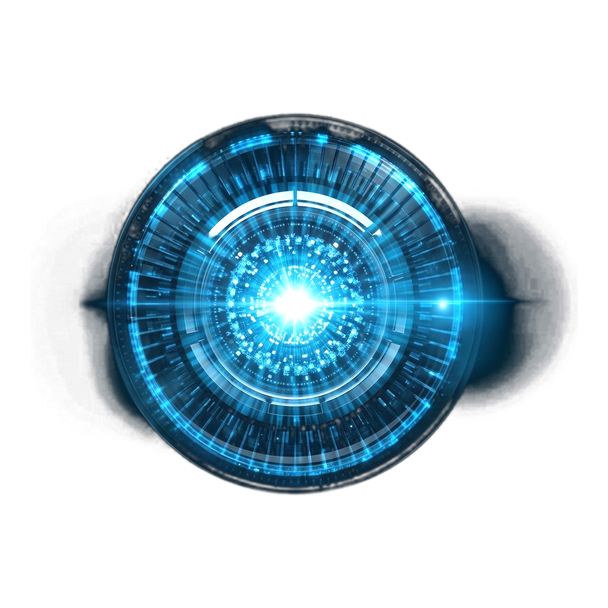
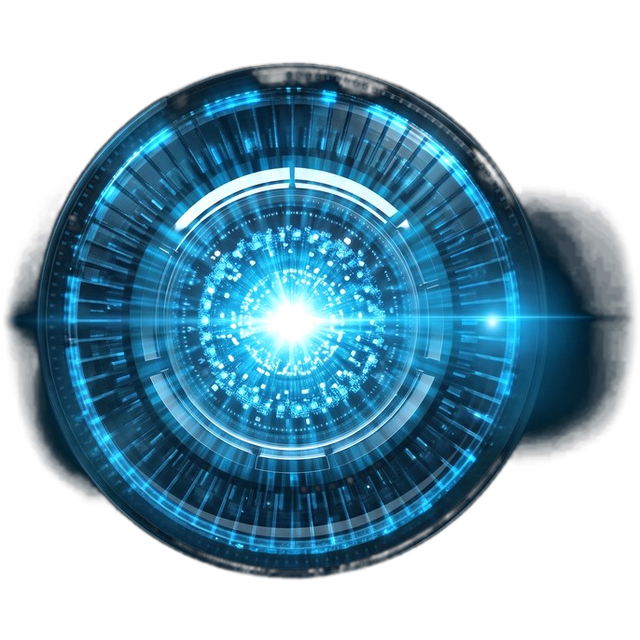
Assemble le cœur JARVIS comme la planche éclatée de référence

diff --git a/viewer/styles.css b/viewer/styles.css
@@ -37,14 +37,14 @@ button:focus-visible, input:focus-visible, textarea:focus-visible, a:focus-visib
 .jarvis-core { position: absolute; left: var(--core-x, 688px); top: var(--core-y, 332px); width: var(--core-size, 380px); height: var(--core-size, 380px); margin: calc(var(--core-size, 380px) / -2) 0 0 calc(var(--core-size, 380px) / -2); transform: perspective(1400px) rotateX(9deg); transform-style: preserve-3d; --jarvis-voice: 0; }
 .jarvis-core-layer { position: absolute; inset: 0; display: grid; place-items: center; pointer-events: none; }
 .jarvis-core-layer img { display: block; width: 100%; height: 100%; object-fit: contain; user-select: none; -webkit-user-drag: none; }
-.core-ring { opacity: .6; transition: opacity .45s ease; }
+.core-ring { opacity: .88; transition: opacity .45s ease; }
 .core-ring img { animation: jarvis-core-spin 96s linear infinite; }
-.core-veil { opacity: .7; transition: opacity .45s ease; }
-.core-veil img { width: 87%; height: 87%; animation: jarvis-core-spin-reverse 64s linear infinite; }
-.core-disc { opacity: calc(.56 + .3 * var(--jarvis-voice)); transition: opacity .12s ease-out; }
-.core-disc img { width: 75%; height: 75%; mix-blend-mode: screen; animation: jarvis-core-spin 30s linear infinite; }
-.core-light { opacity: calc(.62 + .34 * var(--jarvis-voice)); transition: opacity .12s ease-out; }
-.core-light img { width: 55%; height: 55%; mix-blend-mode: screen; animation: jarvis-core-pulse 3.8s ease-in-out infinite; }
+.core-veil { opacity: .62; transition: opacity .45s ease; }
+.core-veil img { width: 90%; height: 90%; animation: jarvis-core-spin-reverse 64s linear infinite; }
+.core-disc { opacity: calc(.62 + .34 * var(--jarvis-voice)); transition: opacity .12s ease-out; }
+.core-disc img { width: 74%; height: 74%; mix-blend-mode: screen; animation: jarvis-core-spin 30s linear infinite; }
+.core-light { opacity: calc(.72 + .28 * var(--jarvis-voice)); transition: opacity .12s ease-out; }
+.core-light img { width: 34%; height: 34%; mix-blend-mode: screen; animation: jarvis-core-pulse 3.8s ease-in-out infinite; }
 .jarvis-core-halo { position: absolute; inset: -14%; border-radius: 50%; background: radial-gradient(circle, rgba(78,214,255,.20), rgba(44,164,224,.07) 46%, transparent 70%); animation: jarvis-core-breathe 6.4s ease-in-out infinite; }
 .jarvis-core-beam { position: absolute; left: 50%; top: 62%; width: 46%; height: 62%; margin-left: -23%; transform: perspective(320px) rotateX(38deg); transform-origin: 50% 0; background: linear-gradient(180deg, rgba(120,235,255,.30), rgba(64,190,240,.10) 46%, transparent 86%); filter: blur(6px); opacity: .5; }
 .jarvis-core-base { position: absolute; left: 50%; top: 96%; width: 62%; height: 13%; margin-left: -31%; border-radius: 50%; background: radial-gradient(ellipse at center, rgba(96,226,255,.5), rgba(40,150,215,.14) 55%, transparent 78%); opacity: .55; }
@@ -54,8 +54,8 @@ button:focus-visible, input:focus-visible, textarea:focus-visible, a:focus-visib
 @keyframes jarvis-core-breathe { 0%, 100% { opacity: .55; transform: scale(.99); } 50% { opacity: .85; transform: scale(1.02); } }
 
 /* Parole : les anneaux accélèrent et s'éclairent, l'orbe bat plus vite. */
-body.jarvis-speaking .core-ring { opacity: .88; }
-body.jarvis-speaking .core-veil { opacity: .95; }
+body.jarvis-speaking .core-ring { opacity: 1; }
+body.jarvis-speaking .core-veil { opacity: .92; }
 body.jarvis-speaking .core-ring img { animation-duration: 34s; }
 body.jarvis-speaking .core-veil img { animation-duration: 22s; }
 body.jarvis-speaking .core-disc img { animation-duration: 11s; }
@@ -425,6 +425,6 @@ button:hover .chevron { color: var(--cyan); transform: translateX(2px); }
 @media (prefers-reduced-motion: reduce) {
   *, *::before, *::after { scroll-behavior: auto !important; animation-duration: .01ms !important; animation-iteration-count: 1 !important; }
   .jarvis-core-layer img, .jarvis-core-halo, .jarvis-core-beam { animation: none !important; }
-  body.jarvis-speaking .core-ring { opacity: .88; }
-  body.jarvis-speaking .core-veil { opacity: .95; }
+  body.jarvis-speaking .core-ring { opacity: 1; }
+  body.jarvis-speaking .core-veil { opacity: .92; }
 }

diff --git a/tools/build-jarvis-core.py b/tools/build-jarvis-core.py
@@ -1,18 +1,20 @@
 #!/usr/bin/env python3
 """Compose le cœur holographique de JARVIS : quatre anneaux concentriques animés.
 
-Couches produites (PNG RGBA carrés, centrés, 608 px de côté) :
+Ordre d'assemblage (du fond vers l'avant) :
 
-1. `jarvis-core-ring.png`   — couronne métallique sombre (le cerclage)
-2. `jarvis-core-veil.png`   — anneau de verre strié (la couronne interne)
-3. `jarvis-core-disc.png`   — disque HUD cyan et ses graduations
+1. `jarvis-core-ring.png`   — couronne d'acier sombre (vue frontale)
+2. `jarvis-core-veil.png`   — anneau de verre strié
+3. `jarvis-core-disc.png`   — disque HUD cyan (perspective redressée)
 4. `jarvis-core-light.png`  — orbe lumineuse centrale
 
-Les sources de `tools/sources/` sont des images générées sur fond noir ou damier :
-le fond est estimé puis retiré, l'alpha est déduit de l'éclat et de la saturation.
+Chaque calque est un PNG RGBA carré, centré, exporté à `EXPORT` pixels de côté.
+Les sources (`tools/sources/`) sont des images générées sur fond noir ou damier :
+le fond est estimé puis retiré, les traits de repère sont effacés, et les pièces
+vues en perspective sont redressées pour retrouver des cercles.
 
-    python3 tools/build-jarvis-core.py            # écrit les quatre calques
-    python3 tools/build-jarvis-core.py --preview  # + rendus de contrôle repos/parole
+    python3 tools/build-jarvis-core.py             # écrit les quatre calques
+    python3 tools/build-jarvis-core.py --preview   # + rendus de contrôle repos/parole
 
 Prérequis (uniquement pour cette commande) : Pillow et numpy.
 """
@@ -27,66 +29,54 @@ from PIL import Image, ImageFilter
 ROOT = Path(__file__).resolve().parent.parent
 ASSETS = ROOT / "viewer" / "assets"
 SOURCES = ROOT / "tools" / "sources"
-EXPORT = 608  # 1,6× le diamètre CSS de 380 px : net sur écran Retina
+EXPORT = 640  # 1,7× le diamètre CSS de 380 px : net sur écran Retina
 
 
 def load(name: str) -> np.ndarray:
     return np.asarray(Image.open(SOURCES / name).convert("RGB"), dtype=np.float32) / 255.0
 
 
-def luminance(rgb: np.ndarray) -> np.ndarray:
-    return rgb.max(axis=2)
-
-
-def chroma(rgb: np.ndarray) -> np.ndarray:
-    return rgb.max(axis=2) - rgb.min(axis=2)
-
-
-def smoothstep(field: np.ndarray, low: float, high: float) -> np.ndarray:
+def smooth(field: np.ndarray, low: float, high: float) -> np.ndarray:
     x = np.clip((field - low) / max(high - low, 1e-6), 0.0, 1.0)
     return x * x * (3.0 - 2.0 * x)
 
 
-def feather(alpha: np.ndarray, radius: float = 1.2) -> np.ndarray:
+def feather(alpha: np.ndarray, radius: float = 1.0) -> np.ndarray:
     image = Image.fromarray((np.clip(alpha, 0, 1) * 255).astype(np.uint8), "L")
     return np.asarray(image.filter(ImageFilter.GaussianBlur(radius)), dtype=np.float32) / 255.0
 
 
-def remove_backdrop(rgb: np.ndarray, strength: float = 1.30) -> np.ndarray:
-    """Retire l'ombre portée d'un fond noir en estimant la valeur des bords."""
-    border = np.concatenate([
-        rgb[:8].reshape(-1, 3), rgb[-8:].reshape(-1, 3),
-        rgb[:, :8].reshape(-1, 3), rgb[:, -8:].reshape(-1, 3),
-    ])
-    backdrop = np.median(border, axis=0)
-    scale = max(1.0 - float(backdrop.max()) * strength, 0.35)
-    return np.clip((rgb - backdrop * strength) / scale, 0, 1)
+def despeckle(field: np.ndarray, size: int = 9) -> np.ndarray:
+    """Médiane 1D horizontale puis verticale : efface les traits de repère fins."""
+    height, width = field.shape
+    half = size // 2
+    padded = np.pad(field, ((0, 0), (half, half)), mode="edge")
+    rows = np.stack([padded[:, index:index + width] for index in range(size)])
+    field = np.median(rows, axis=0)
+    padded = np.pad(field, ((half, half), (0, 0)), mode="edge")
+    columns = np.stack([padded[index:index + height] for index in range(size)])
+    return np.median(columns, axis=0)
 
 
-def crop_to_content(rgb: np.ndarray, alpha: np.ndarray, threshold: float = 0.02) -> tuple[np.ndarray, np.ndarray]:
-    ys, xs = np.where(alpha > threshold)
-    if not len(xs):
-        raise SystemExit("Source vide : vérifiez tools/sources/.")
-    box = (ys.min(), ys.max() + 1, xs.min(), xs.max() + 1)
-    return rgb[box[0]:box[1], box[2]:box[3]], alpha[box[0]:box[1], box[2]:box[3]]
+def crop_circle(rgb: np.ndarray, alpha: np.ndarray, cx: float, cy: float, r: float,
+                companion: np.ndarray | None = None) -> tuple[np.ndarray, np.ndarray, np.ndarray | None]:
+    """Découpe un disque en adoucissant le bord : aucun angle carré ne subsiste.
+
+    `companion` est une seconde carte (luminance par exemple) découpée de la même façon.
+    """
+    yy, xx = np.mgrid[0:rgb.shape[0], 0:rgb.shape[1]]
+    circle = 1.0 - smooth(np.sqrt((xx - cx) ** 2 + (yy - cy) ** 2) / r, 0.94, 1.0)
+    masked = alpha * circle
+    top, bottom = max(int(cy - r), 0), min(int(cy + r), rgb.shape[0])
+    left, right = max(int(cx - r), 0), min(int(cx + r), rgb.shape[1])
+    extra = companion[top:bottom, left:right] if companion is not None else None
+    return rgb[top:bottom, left:right], masked[top:bottom, left:right], extra
 
 
-def square(rgb: np.ndarray, alpha: np.ndarray, fill: float = 0.92) -> tuple[np.ndarray, np.ndarray]:
-    """Centre la découpe dans un carré : `fill` = part du carré occupée par l'anneau."""
-    height, width = alpha.shape
-    side = int(round(max(height, width) / max(fill, 0.05)))
-    canvas_rgb = np.zeros((side, side, 3), dtype=np.float32)
-    canvas_alpha = np.zeros((side, side), dtype=np.float32)
-    top, left = (side - height) // 2, (side - width) // 2
-    canvas_rgb[top:top + height, left:left + width] = rgb
-    canvas_alpha[top:top + height, left:left + width] = alpha
-    return canvas_rgb, canvas_alpha
-
-
-def resize(rgb: np.ndarray, alpha: np.ndarray, size: int) -> tuple[np.ndarray, np.ndarray]:
-    """Redimensionnement prémultiplié : pas de liseré sombre autour des reflets."""
-    premultiplied = np.dstack([rgb * alpha[:, :, None], alpha]) * 255.0
-    image = Image.fromarray(premultiplied.clip(0, 255).astype(np.uint8), "RGBA")
+def to_square(rgb: np.ndarray, alpha: np.ndarray, size: int) -> tuple[np.ndarray, np.ndarray]:
+    """Redimensionne en carré (redressement de perspective + mise à l'échelle)."""
+    premultiplied = np.dstack([rgb * alpha[:, :, None], alpha])
+    image = Image.fromarray((premultiplied * 255).clip(0, 255).astype(np.uint8), "RGBA")
     image = image.resize((size, size), Image.Resampling.LANCZOS)
     data = np.asarray(image, dtype=np.float32) / 255.0
     out_alpha = data[:, :, 3]
@@ -95,116 +85,129 @@ def resize(rgb: np.ndarray, alpha: np.ndarray, size: int) -> tuple[np.ndarray, n
 
 
 def save(rgb: np.ndarray, alpha: np.ndarray, name: str) -> None:
-    data = np.dstack([rgb * 255.0, alpha * 255.0]).clip(0, 255).astype(np.uint8)
-    image = Image.fromarray(data, "RGBA").resize((EXPORT, EXPORT), Image.Resampling.LANCZOS)
+    data = np.dstack([rgb, alpha]).clip(0, 1) * 255.0
+    image = Image.fromarray(data.astype(np.uint8), "RGBA")
+    if image.size != (EXPORT, EXPORT):
+        image = image.resize((EXPORT, EXPORT), Image.Resampling.LANCZOS)
     destination = ASSETS / name
     image.save(destination, optimize=True)
     print(f"{name:26s} {destination.stat().st_size:>8,} octets  bbox {image.getchannel('A').getbbox()}")
 
 
-def steel_colour(rgb: np.ndarray, dark: str, light: str) -> np.ndarray:
-    """Acier bleuté : l'éclat d'origine module un dégradé sombre → clair contrôlé.
-
-    Recolorer avec des teintes fixes évite les verts olive qu'un simple produit
-    chroma/luminance fait apparaître sur des pixels presque noirs.
-    """
-    low = np.array([int(dark[index:index + 2], 16) / 255 for index in (1, 3, 5)], dtype=np.float32)
-    high = np.array([int(light[index:index + 2], 16) / 255 for index in (1, 3, 5)], dtype=np.float32)
-    lum = luminance(rgb)
+def steel(rgb: np.ndarray, dark: str, light: str) -> np.ndarray:
+    """Acier bleuté : l'éclat d'origine module un dégradé sombre → clair contrôlé."""
+    low = np.array([int(dark[i:i + 2], 16) / 255 for i in (1, 3, 5)], dtype=np.float32)
+    high = np.array([int(light[i:i + 2], 16) / 255 for i in (1, 3, 5)], dtype=np.float32)
+    lum = rgb.max(axis=2)
     reference = max(float(np.percentile(lum[lum > 0.02], 99.5)) if (lum > 0.02).any() else 0.5, 1e-3)
-    ramp = np.clip(lum / reference, 0, 1) ** 0.75
+    ramp = np.clip(lum / reference, 0, 1) ** 0.78
     return low + (high - low) * ramp[:, :, None]
 
 
-def build_ring() -> None:
-    rgb = remove_backdrop(load("metal-ring.jpg"))
-    lum = luminance(rgb)
-    # La couronne est opaque sur sa masse, translucide sur ses stries.
-    # Seuils relevés : la planche d'origine contient un disque gris très sombre autour
-    # de la couronne ; sans ce plancher, il apparaîtrait comme un voile carré.
-    body = smoothstep(lum, 0.055, 0.150)
-    alpha = feather(smoothstep(body, 0.30, 0.95) * 0.95, 1.2)
-    colour = steel_colour(rgb, "#25323d", "#e2eef6")
-    save(*resize(*square(*crop_to_content(colour, alpha), fill=0.97), EXPORT), "jarvis-core-ring.png")
+def measure(alpha: np.ndarray, threshold: float = 0.5) -> tuple[float, float, float]:
+    ys, xs = np.where(alpha > threshold)
+    if not len(xs):
+        raise SystemExit("Calque vide : vérifiez tools/sources/.")
+    cx, cy = (xs.min() + xs.max()) / 2, (ys.min() + ys.max()) / 2
+    radius = max(xs.max() - xs.min(), ys.max() - ys.min()) / 2
+    return cx, cy, radius
+
+
+def build_crown() -> None:
+    """Couronne d'acier : vue frontale déjà circulaire."""
+    rgb = load("metal-ring.jpg")
+    lum = rgb.max(axis=2)
+    body = smooth(lum, 0.010, 0.050)
+    cx, cy, radius = measure(lum > 0.05)
+    cut_rgb, cut_alpha, cut_lum = crop_circle(rgb, body, cx, cy, radius * 1.01, companion=lum)
+    # Métal sombre : la masse reste presque noire, seules les arêtes chromées s'allument.
+    colour = steel(cut_rgb, "#0d141c", "#f2fbff") ** 1.45 * 0.92
+    save(*to_square(np.clip(colour, 0, 1), feather(cut_alpha, 0.8), EXPORT), "jarvis-core-ring.png")
 
 
 def build_veil() -> None:
-    """Anneau de verre strié : détouré d'un damier gris, sans halo résiduel."""
+    """Anneau de verre strié, détouré d'un damier gris (pas de halo résiduel)."""
     rgb = load("glass-ring.jpg")
-    lum, sat = luminance(rgb), chroma(rgb)
-    glass = (sat > 0.045) | ((lum < 0.55) & (lum > 0.03))
+    lum, sat = rgb.max(axis=2), rgb.max(axis=2) - rgb.min(axis=2)
+    glass = ((sat > 0.045) | ((lum < 0.55) & (lum > 0.03))).astype(np.float32)
     solid = np.asarray(
         Image.fromarray((glass * 255).astype(np.uint8)).filter(ImageFilter.MinFilter(5)),
         dtype=np.float32,
     ) / 255.0
-    ys, xs = np.where(solid > 0.5)
-    centre_x, centre_y = (xs.min() + xs.max()) / 2, (ys.min() + ys.max()) / 2
-    radius = max(xs.max() - xs.min(), ys.max() - ys.min()) / 2
-    yy, xx = np.mgrid[0:rgb.shape[0], 0:rgb.shape[1]]
-    radial = np.clip((1.04 - np.sqrt((xx - centre_x) ** 2 + (yy - centre_y) ** 2) / radius) / 0.05, 0, 1)
-    alpha = solid * radial
-    # Les carreaux clairs du damier ne doivent pas rester collés au verre.
-    alpha = np.where((sat < 0.035) & (lum > 0.70), 0, alpha)
-    alpha = feather(alpha, 1.0) * np.clip(lum * 2.2 + 0.35, 0, 1)
-    colour = steel_colour(rgb, "#21313c", "#cfe7f2") * 0.92
-    save(*resize(*square(*crop_to_content(colour, alpha), fill=0.94), EXPORT), "jarvis-core-veil.png")
+    # La planche contient des repères (traits fins) : on les efface avant de découper.
+    # La planche laisse une large marge noire : on cadre la bande utile en proportion.
+    top, bottom = int(rgb.shape[0] * 0.218), int(rgb.shape[0] * 0.770)
+    solid = despeckle(solid[top:bottom], 9)
+    cx, cy, radius = measure(solid)
+    solid = np.where((sat[top:bottom] < 0.035) & (lum[top:bottom] > 0.70), 0, solid)
+    cut_rgb, cut_alpha, cut_lum = crop_circle(
+        rgb[top:bottom], solid, cx, cy, radius * 1.02, companion=lum[top:bottom]
+    )
+    cut_alpha = cut_alpha * np.clip(cut_lum * 3.4 - 0.12, 0, 1)
+    colour = np.clip(steel(cut_rgb, "#0f1d27", "#dceff9") ** 1.35 * 1.05, 0, 1)
+    save(*to_square(colour, feather(cut_alpha, 1.0), EXPORT), "jarvis-core-veil.png")
 
 
 def build_disc() -> None:
-    rgb = remove_backdrop(load("cyan-disc.jpg"), strength=1.0)
-    lum = luminance(rgb)
-    alpha = feather(smoothstep(lum, 0.015, 0.20), 1.0)
-    save(*resize(*square(*crop_to_content(np.clip(rgb * 1.10, 0, 1), alpha), fill=0.90), EXPORT), "jarvis-core-disc.png")
+    """Disque HUD cyan, vu de face : aucune perspective à corriger, aucun métal voisin."""
+    rgb = load("cyan-disc.jpg")
+    lum = rgb.max(axis=2)
+    sat = rgb.max(axis=2) - rgb.min(axis=2)
+    mask = despeckle(smooth(lum, 0.04, 0.18) * np.maximum(smooth(sat, 0.02, 0.10), 0.55), 7)
+    cx, cy, radius = measure(mask, threshold=0.30)
+    cut_rgb, cut_alpha, _ = crop_circle(rgb, mask, cx, cy, radius * 1.0)
+    save(*to_square(np.clip(cut_rgb * 1.05, 0, 1), feather(cut_alpha, 1.0), EXPORT), "jarvis-core-disc.png")
 
 
 def build_light() -> None:
-    """Orbe centrale : uniquement le cœur très lumineux, pas le disque cyan complet."""
-    rgb = remove_backdrop(load("core-glow.jpg"))
-    lum = luminance(rgb)
-    bright = lum > 0.62
-    ys, xs = np.where(bright)
+    """Orbe lumineuse : noyau blanc, couronne de rayons cyan, sans le cerclage métallique.
+
+    La source empile un arc d'acier et l'orbe. L'acier est gris (saturation faible) :
+    on ne conserve donc que le signal cyan, complété par le noyau blanc central.
+    """
+    rgb = load("orb-glow.jpg")
+    lum = rgb.max(axis=2)
+    sat = rgb.max(axis=2) - rgb.min(axis=2)
+    cyan = smooth(sat, 0.05, 0.28) * smooth(lum, 0.03, 0.25)
+    ys, xs = np.where((sat > 0.25) & (lum > 0.35))
     if not len(xs):
-        raise SystemExit("Cœur lumineux introuvable dans core-glow.jpg")
-    centre_x, centre_y = int(np.median(xs)), int(np.median(ys))
-    radius = int(max(xs.max() - xs.min(), ys.max() - ys.min()) * 0.95)
-    side = radius * 2
-    top, left = max(centre_y - radius, 0), max(centre_x - radius, 0)
-    crop = rgb[top:top + side, left:left + side]
-    height, width = crop.shape[:2]
-    yy, xx = np.mgrid[0:height, 0:width]
-    distance = np.sqrt((xx - width / 2) ** 2 + (yy - height / 2) ** 2) / (min(width, height) / 2)
-    circular = 1.0 - smoothstep(distance, 0.55, 1.0)
-    local = luminance(crop)
-    alpha = feather(smoothstep(local, 0.18, 0.85) * circular, 2.0)
-    colour = steel_colour(crop, "#3fb6e6", "#ffffff")
-    save(*resize(colour, alpha, EXPORT), "jarvis-core-light.png")
+        raise SystemExit("Orbe centrale introuvable dans orb-glow.jpg")
+    cx, cy = float(xs.mean()), float(ys.mean())
+    yy, xx = np.mgrid[0:rgb.shape[0], 0:rgb.shape[1]]
+    distance = np.sqrt((xx - cx) ** 2 + (yy - cy) ** 2)
+    disc = 1.0 - smooth(distance, 92.0, 122.0)
+    kernel = 1.0 - smooth(distance, 26.0, 40.0)
+    alpha = np.maximum(cyan * disc, kernel * 0.95)
+    alpha = feather(alpha, 1.6)
+    cut_rgb, cut_alpha, _ = crop_circle(rgb, alpha, cx, cy, 126.0)
+    colour = steel(cut_rgb, "#43b6e6", "#ffffff")
+    save(*to_square(np.clip(colour, 0, 1), feather(cut_alpha, 1.2), EXPORT), "jarvis-core-light.png")
 
 
 LAYERS = (
-    # (fichier, diamètre CSS, mode de fusion, opacité repos, opacité parole)
-    ("jarvis-core-ring.png", 380, "normal", .62, .86),
-    ("jarvis-core-veil.png", 330, "normal", .72, .95),
-    ("jarvis-core-disc.png", 286, "screen", .58, .92),
-    ("jarvis-core-light.png", 210, "screen", .70, 1.0),
+    # (fichier, part du diamètre extérieur, mode de fusion, opacité repos, opacité parole)
+    ("jarvis-core-ring.png", 1.00, "normal", .88, 1.0),
+    ("jarvis-core-veil.png", .90, "normal", .62, .92),
+    ("jarvis-core-disc.png", .74, "screen", .82, 1.0),
+    ("jarvis-core-light.png", .34, "screen", .85, 1.0),
 )
 
 
 def preview() -> None:
-    """Simule un rendu repos / parole pour contrôler les couches hors navigateur."""
+    """Simule un rendu repos / parole dans le décor, hors navigateur."""
     backdrop = Image.open(ASSETS / "command-room.jpg").convert("RGB").resize((1376, 768), Image.Resampling.LANCZOS)
     base = np.asarray(backdrop, dtype=np.float32) / 255.0
     centre = (688, 332)
-
-    def place(name: str, diameter: int) -> tuple[np.ndarray, np.ndarray]:
-        image = Image.open(ASSETS / name).convert("RGBA").resize((diameter, diameter), Image.Resampling.LANCZOS)
-        data = np.asarray(image, dtype=np.float32) / 255.0
-        return data[:, :, :3], data[:, :, 3]
+    outer = 380
 
     def compose(index: int) -> Image.Image:
         canvas = base.copy()
-        for name, diameter, blend, rest, speaking in LAYERS:
-            rgb, alpha = place(name, diameter)
-            opacity = (speaking if index else rest) * alpha
+        for name, fraction, blend, rest, speaking in LAYERS:
+            diameter = int(outer * fraction)
+            image = Image.open(ASSETS / name).convert("RGBA").resize((diameter, diameter), Image.Resampling.LANCZOS)
+            data = np.asarray(image, dtype=np.float32) / 255.0
+            rgb, alpha = data[:, :, :3], data[:, :, 3]
+            opacity = alpha * (speaking if index else rest)
             top, left = centre[1] - diameter // 2, centre[0] - diameter // 2
             area = canvas[top:top + diameter, left:left + diameter]
             if blend == "screen":
@@ -222,7 +225,7 @@ if __name__ == "__main__":
     parser = argparse.ArgumentParser(description=__doc__)
     parser.add_argument("--preview", action="store_true", help="génère aussi les rendus de contrôle")
     arguments = parser.parse_args()
-    build_ring()
+    build_crown()
     build_veil()
     build_disc()
     build_light()

diff --git a/README.md b/README.md
@@ -28,7 +28,7 @@ Exemple :
 }
 ```
 
-Le cœur est composé de quatre calques PNG transparents dans `viewer/assets/` : couronne d’acier (`jarvis-core-ring.png`), anneau de verre strié (`jarvis-core-veil.png`), disque HUD cyan (`jarvis-core-disc.png`) et orbe lumineuse (`jarvis-core-light.png`). L’interface reproduit la géométrie « cover » du décor pour que l’ensemble reste posé au-dessus du projecteur du cockpit. Les calques se régénèrent avec `python3 tools/build-jarvis-core.py` (Pillow et numpy requis, uniquement pour cette commande) ; les images sources sont dans `tools/sources/`.
+Le cœur est composé de quatre calques PNG transparents dans `viewer/assets/`, assemblés du plus grand au plus petit comme la planche éclatée de référence : couronne d’acier (`jarvis-core-ring.png`), anneau de verre strié (`jarvis-core-veil.png`), disque HUD cyan (`jarvis-core-disc.png`) et orbe lumineuse (`jarvis-core-light.png`). L’interface reproduit la géométrie « cover » du décor pour que l’ensemble reste posé au-dessus du projecteur du cockpit. Les calques se régénèrent avec `python3 tools/build-jarvis-core.py` (Pillow et numpy requis, uniquement pour cette commande) ; les images sources sont dans `tools/sources/`.
 
 `config.json`, les captures créées par JARVIS et l'index de notes généré sont ignorés par Git. **Ne mettez pas vos notes privées dans le dépôt.** Les captures créées par « Souviens-toi que… » sont enregistrées dans `captures/` à l'intérieur de votre dossier de notes.
 
